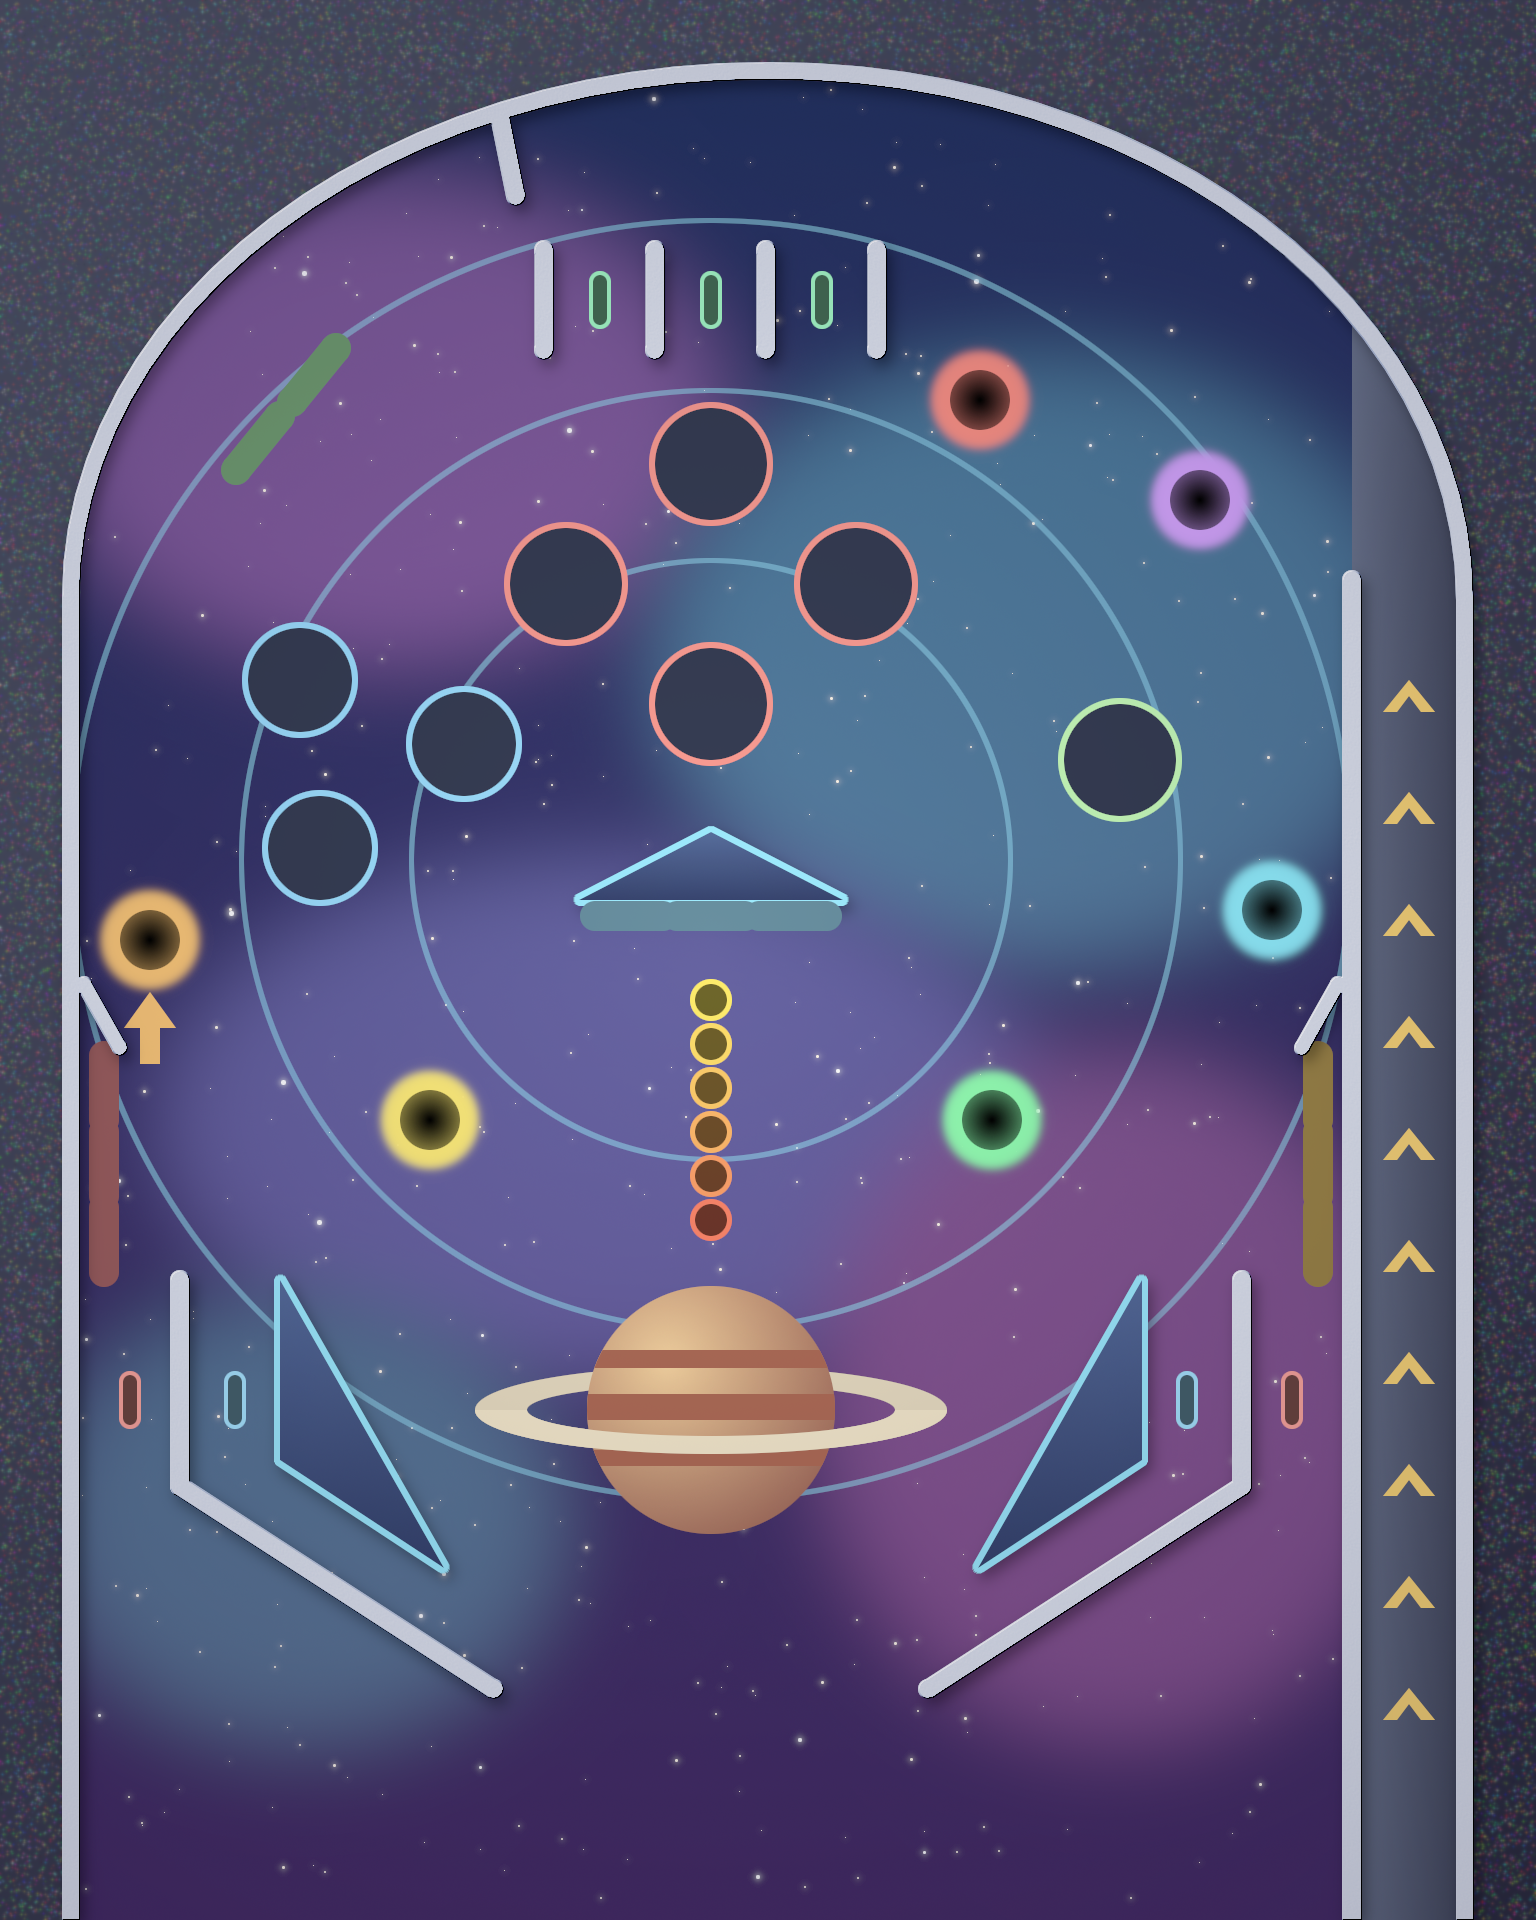
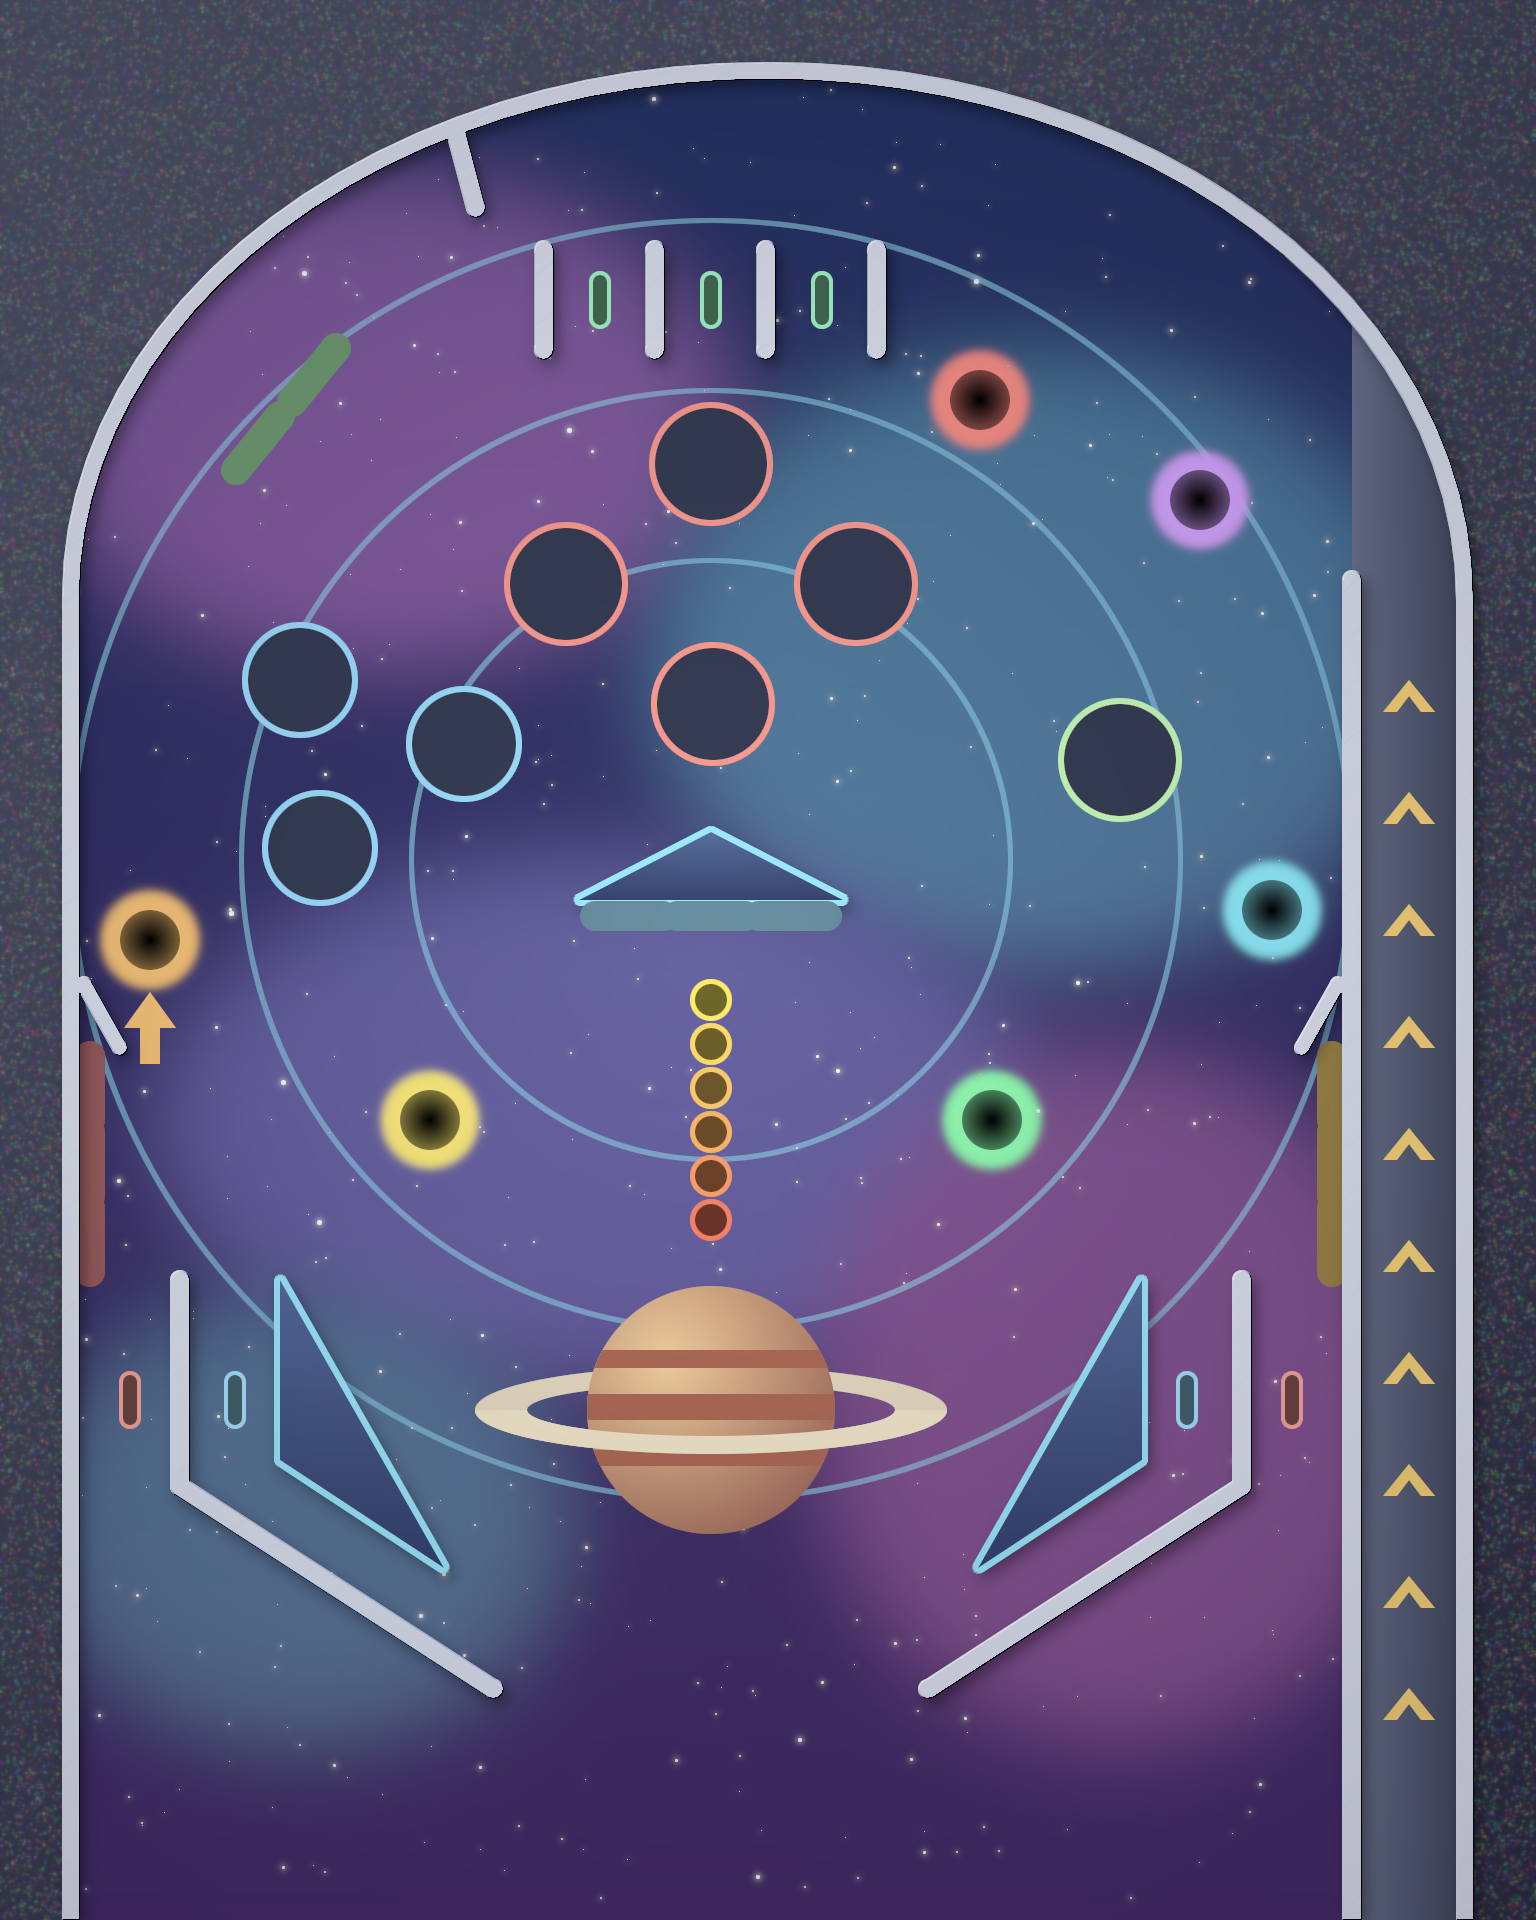
fix: make asset generation reproducible; regenerate art for the final geometry

diff --git a/tools/gimp/common.py b/tools/gimp/common.py
@@ -82,18 +82,20 @@ def fill_selection(layer, c):
     layer.edit_fill(Gimp.FillType.FOREGROUND)
 
 
+# Gradients are drawn without dithering. GIMP seeds its dither from an
+# unseeded random source, which would make every regeneration differ.
 def linear_gradient(layer, c1, c2, x1, y1, x2, y2):
     Gimp.context_set_foreground(c1)
     Gimp.context_set_background(c2)
     Gimp.context_set_gradient_fg_bg_rgb()
-    layer.edit_gradient_fill(Gimp.GradientType.LINEAR, 0, False, 1, 0, True, x1, y1, x2, y2)
+    layer.edit_gradient_fill(Gimp.GradientType.LINEAR, 0, False, 1, 0, False, x1, y1, x2, y2)
 
 
 def radial_gradient(layer, c1, c2, cx, cy, ex, ey):
     Gimp.context_set_foreground(c1)
     Gimp.context_set_background(c2)
     Gimp.context_set_gradient_fg_bg_rgb()
-    layer.edit_gradient_fill(Gimp.GradientType.RADIAL, 0, False, 1, 0, True, cx, cy, ex, ey)
+    layer.edit_gradient_fill(Gimp.GradientType.RADIAL, 0, False, 1, 0, False, cx, cy, ex, ey)
 
 
 def apply_filter(layer, operation, **props):

diff --git a/tools/gimp/make_ball.py b/tools/gimp/make_ball.py
@@ -22,7 +22,7 @@ def make_ball(repo):
     Gimp.context_set_background(color(0.16, 0.18, 0.26))
     Gimp.context_set_gradient_fg_bg_rgb()
     cx, cy = SIZE * 0.38, SIZE * 0.34
-    layer.edit_gradient_fill(Gimp.GradientType.RADIAL, 0, False, 1, 0, True,
+    layer.edit_gradient_fill(Gimp.GradientType.RADIAL, 0, False, 1, 0, False,
                              cx, cy, SIZE * 0.95, SIZE * 0.95)
 
     # Soft reflected light along the lower-right rim.
@@ -32,7 +32,7 @@ def make_ball(repo):
     rim.fill(Gimp.FillType.TRANSPARENT)
     Gimp.context_set_foreground(color(0.45, 0.6, 1.0))
     Gimp.context_set_gradient_fg_transparent()
-    rim.edit_gradient_fill(Gimp.GradientType.RADIAL, 0, False, 1, 0, True,
+    rim.edit_gradient_fill(Gimp.GradientType.RADIAL, 0, False, 1, 0, False,
                            SIZE * 0.70, SIZE * 0.74, SIZE * 0.42, SIZE * 0.46)
 
     # Specular highlight.

diff --git a/tools/gimp/make_sprites.py b/tools/gimp/make_sprites.py
@@ -110,7 +110,7 @@ def make_glow(repo):
     layer = new_layer(img, "glow")
     Gimp.context_set_foreground(color(1.0, 1.0, 1.0))
     Gimp.context_set_gradient_fg_transparent()
-    layer.edit_gradient_fill(Gimp.GradientType.RADIAL, 0, False, 1, 0, True,
+    layer.edit_gradient_fill(Gimp.GradientType.RADIAL, 0, False, 1, 0, False,
                              size / 2 * S, size / 2 * S, size * S * 0.98, size / 2 * S)
     return finish(img, repo, "glow.png")
 

diff --git a/README.md b/README.md
@@ -104,6 +104,8 @@ for script in ("make_ball", "make_table", "make_sprites"):
 | `sprites/bar.png` | `make_sprites.py` | Stand-up target face, tinted per bank |
 | `sprites/plunger.png` | `make_sprites.py` | |
 
+Regeneration is reproducible: gradients are drawn without dithering (GIMP's dither is randomly seeded), noise and stars use fixed seeds, and exports carry no timestamps. Running the scripts twice gives byte-identical files, so the hashes in the asset manifest only change when the art does.
+
 To look at the result without opening a window: `cd build && ./pinball_snapshot 1200 frame.png`.
 
 ### Integrity
